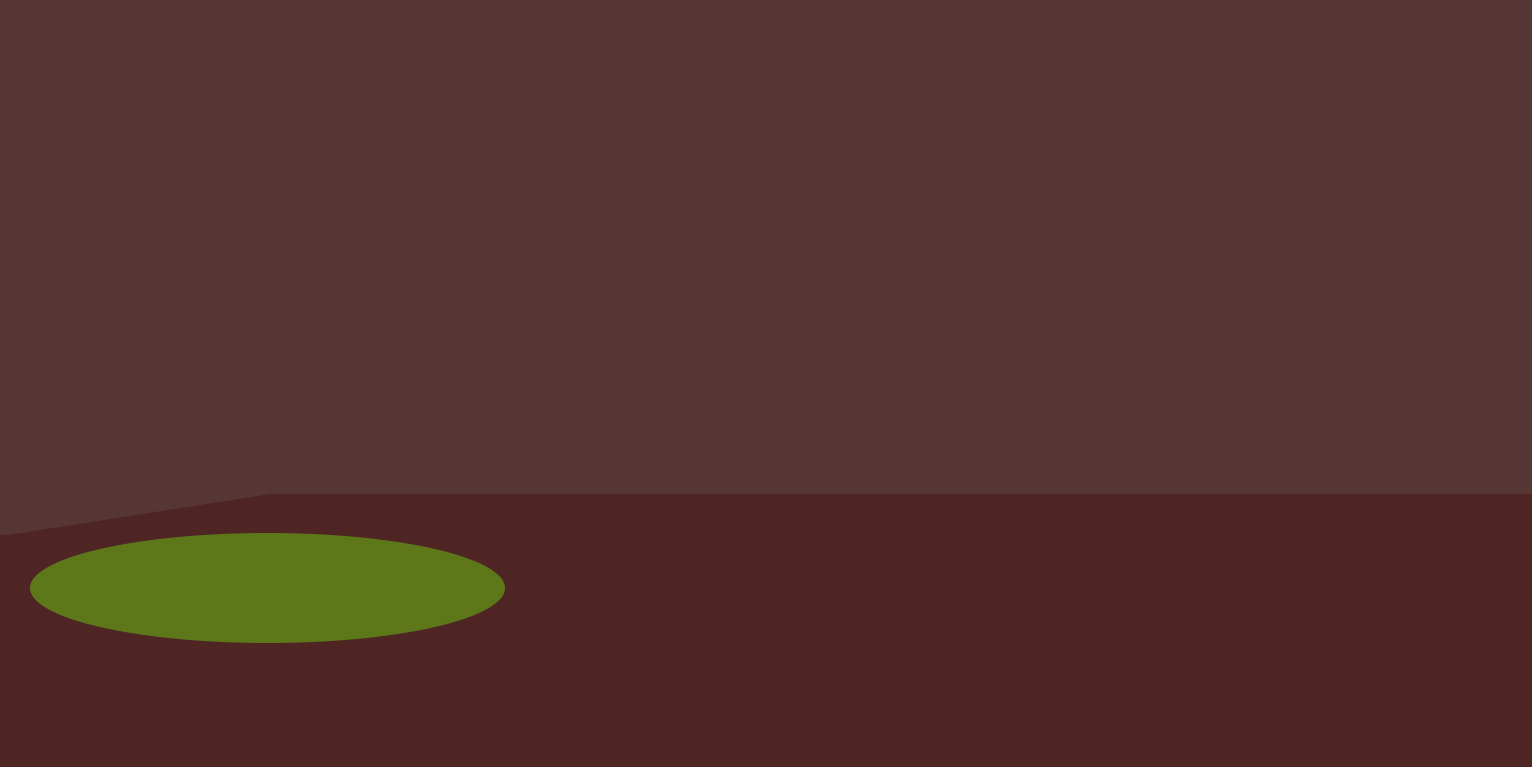
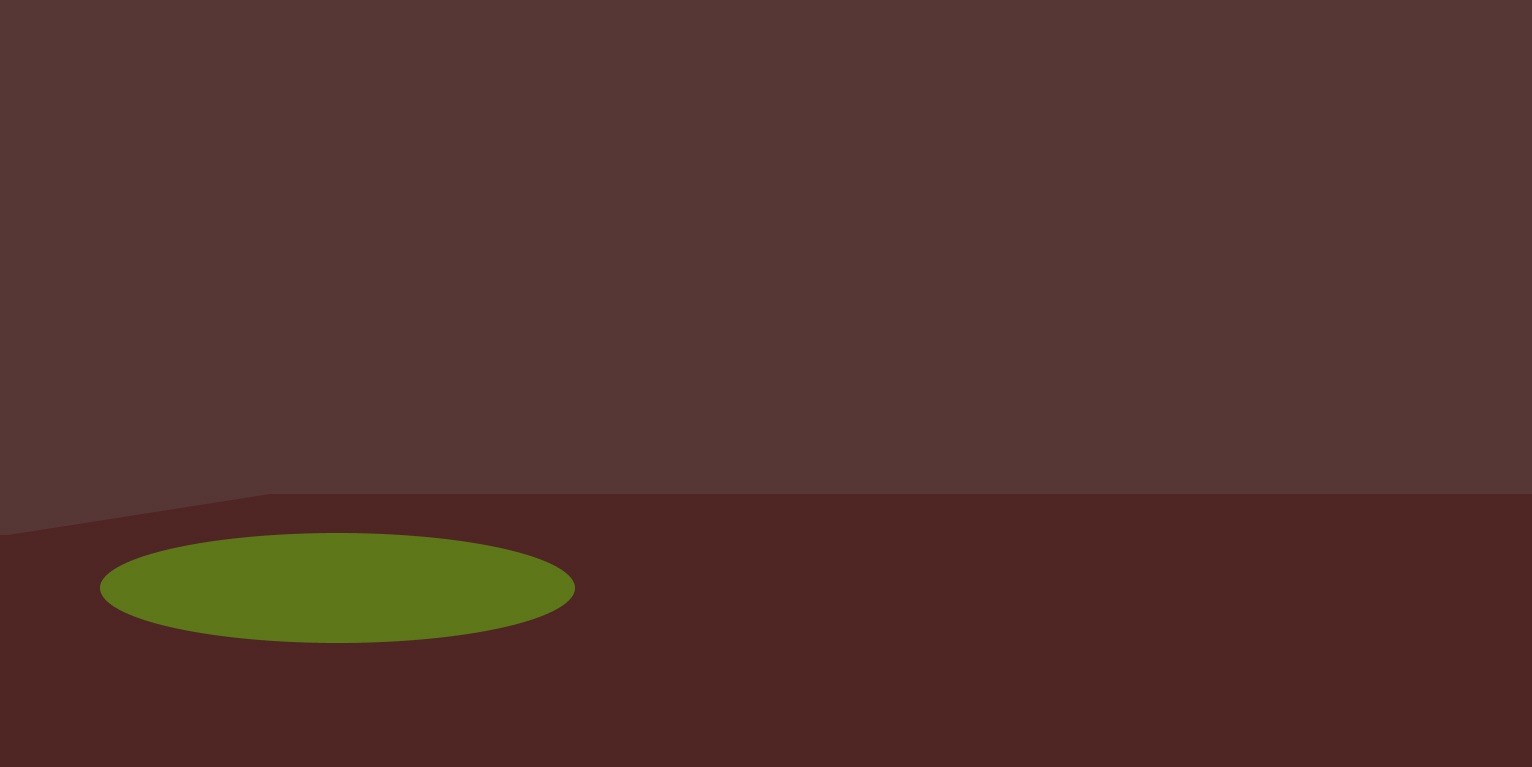
code update

Changed region(s): [[0.2148, 0.6897, 0.3988, 0.8396], [0.0, 0.6897, 0.1841, 0.8396]]

diff --git a/madlibs/v1/index.html b/madlibs/v1/index.html
@@ -30,21 +30,41 @@
     </header>
 
     <main>
-        <img id="person" src="images/person.png" width=350px alt="person inquisitively looks down at their pocket when they notice something is moving inside it">
+        <img id="person" src="images/person.png" width=370px alt="person inquisitively looks down at their pocket when they notice something is moving inside it">
 
         <section id="madlib-questions1" class="madlib-questions">
             <form>
-                <label for="exclaimation">Exclaimation:</label><input type="text" required>
-                <label for="name">Name:</label><input type="text" required>
-                <label for="city">City:</label><input type="text" required>
-                <label for="adjective1">Adjective:</label><input type="text" required>
-                <label for="noun1">Noun:</label><input type="text" required>
-                <label for="animal">Animal:</label><input type="text" required>
-                <label for="Job">Job:</label><input type="text" required>
-                <label for="adjective2">Adjective:</label><input type="text" required>
-                <label for="noun2">Noun:</label><input type="text" required>
-                <label for="food">Food:</label><input type="text" required>
-                <input type="submit">
+                <label for="exclaimation">Exclaimation:</label>
+                <input id="exclaimation" type="text" required>
+                
+                <label for="name">Name:</label>
+                <input id="name" type="text" required>
+                
+                <label for="city">City:</label>
+                <input id="city" type="text" required>
+                
+                <label for="adjective1">Adjective:</label>
+                <input id="adjective1" type="text" required>
+                
+                <label for="noun1">Noun:</label>
+                <input id="noun1" type="text" required>
+                
+                <label for="animal">Animal:</label>
+                <input id="animal" type="text" required>
+                
+                <label for="job">Job:</label>
+                <input id="job" type="text" required>
+                
+                <label for="adjective2">Adjective:</label>
+                <input id="adjective2" type="text" required>
+               
+                <label for="noun2">Noun:</label>
+                <input id="noun2" type="text" required>
+                
+                <label for="food">Food:</label>
+                <input id="food" type="text" required>
+
+                <button type="submit" value="next">Next</button>
             </form>
         </section>
 
@@ -59,7 +79,7 @@
                 <label for="noun4">Noun:</label><input type="text" required>
                 <label for="number2">Number:</label><input type="text" required>
                 <label for="pluralnoun">Plural noun:</label><input type="text" required>
-                <label for="next2">Next</label><input type="submit">
+                <button type="submit" value="Submit">Submit</button>
             </form>
         </section>
 

diff --git a/madlibs/v1/styles.css b/madlibs/v1/styles.css
@@ -22,6 +22,7 @@ header {
 
 header h1 {
     font-size:60px;
+    margin-bottom:0;
     
 }
 
@@ -36,31 +37,64 @@ body {
 #person {
     position:absolute;
     bottom:60px;
-    left:100px;
+    left:150px;
 }
 
 
 .madlib-questions {
-    display:grid;
-    grid-template-columns: 1fr 1fr;
-    gap:40px;
-    background-color:#FEF0D1;
+    background-color:#EAD7AC;
     font-family: "ruddy", sans-serif;
+    font-size:20px;
     font-weight:700;
     color:#4F2524;
     width:700px;
     padding:30px;
     border-radius:30px;
-    
+}
+
+.madlib-questions form {
+    display:grid;
+    grid-template-rows: repeat(6,auto);
+    grid-auto-flow: column;
+    grid-gap:20px;
 }
 
 .madlib-questions label {
     padding-bottom:10px;
 }
 
+.madlib-questions input {
+    width:250px;
+}
+
+button {
+    font-size:20px;
+    width:200px;
+    background-color:#F99BAA;
+    border:none;
+    font-weight:700;
+    border-radius:15px;
+    box-shadow: #4F2524 2px 3px 4px; 
+}
+
+button:hover {
+    scale:1.2;
+}
+
+.question {
+    display:flex;
+    flex-direction:column;
+}
+
+
 #madlib-questions2 {
     display:none;
 }
+
+/* .madlib-questions input[type="submit"] {
+    grid-column: 2 / 6;
+    justify-self: center; 
+} */
 
 input[type="text"]:focus {
     border: 1px solid #D6D9DC;
